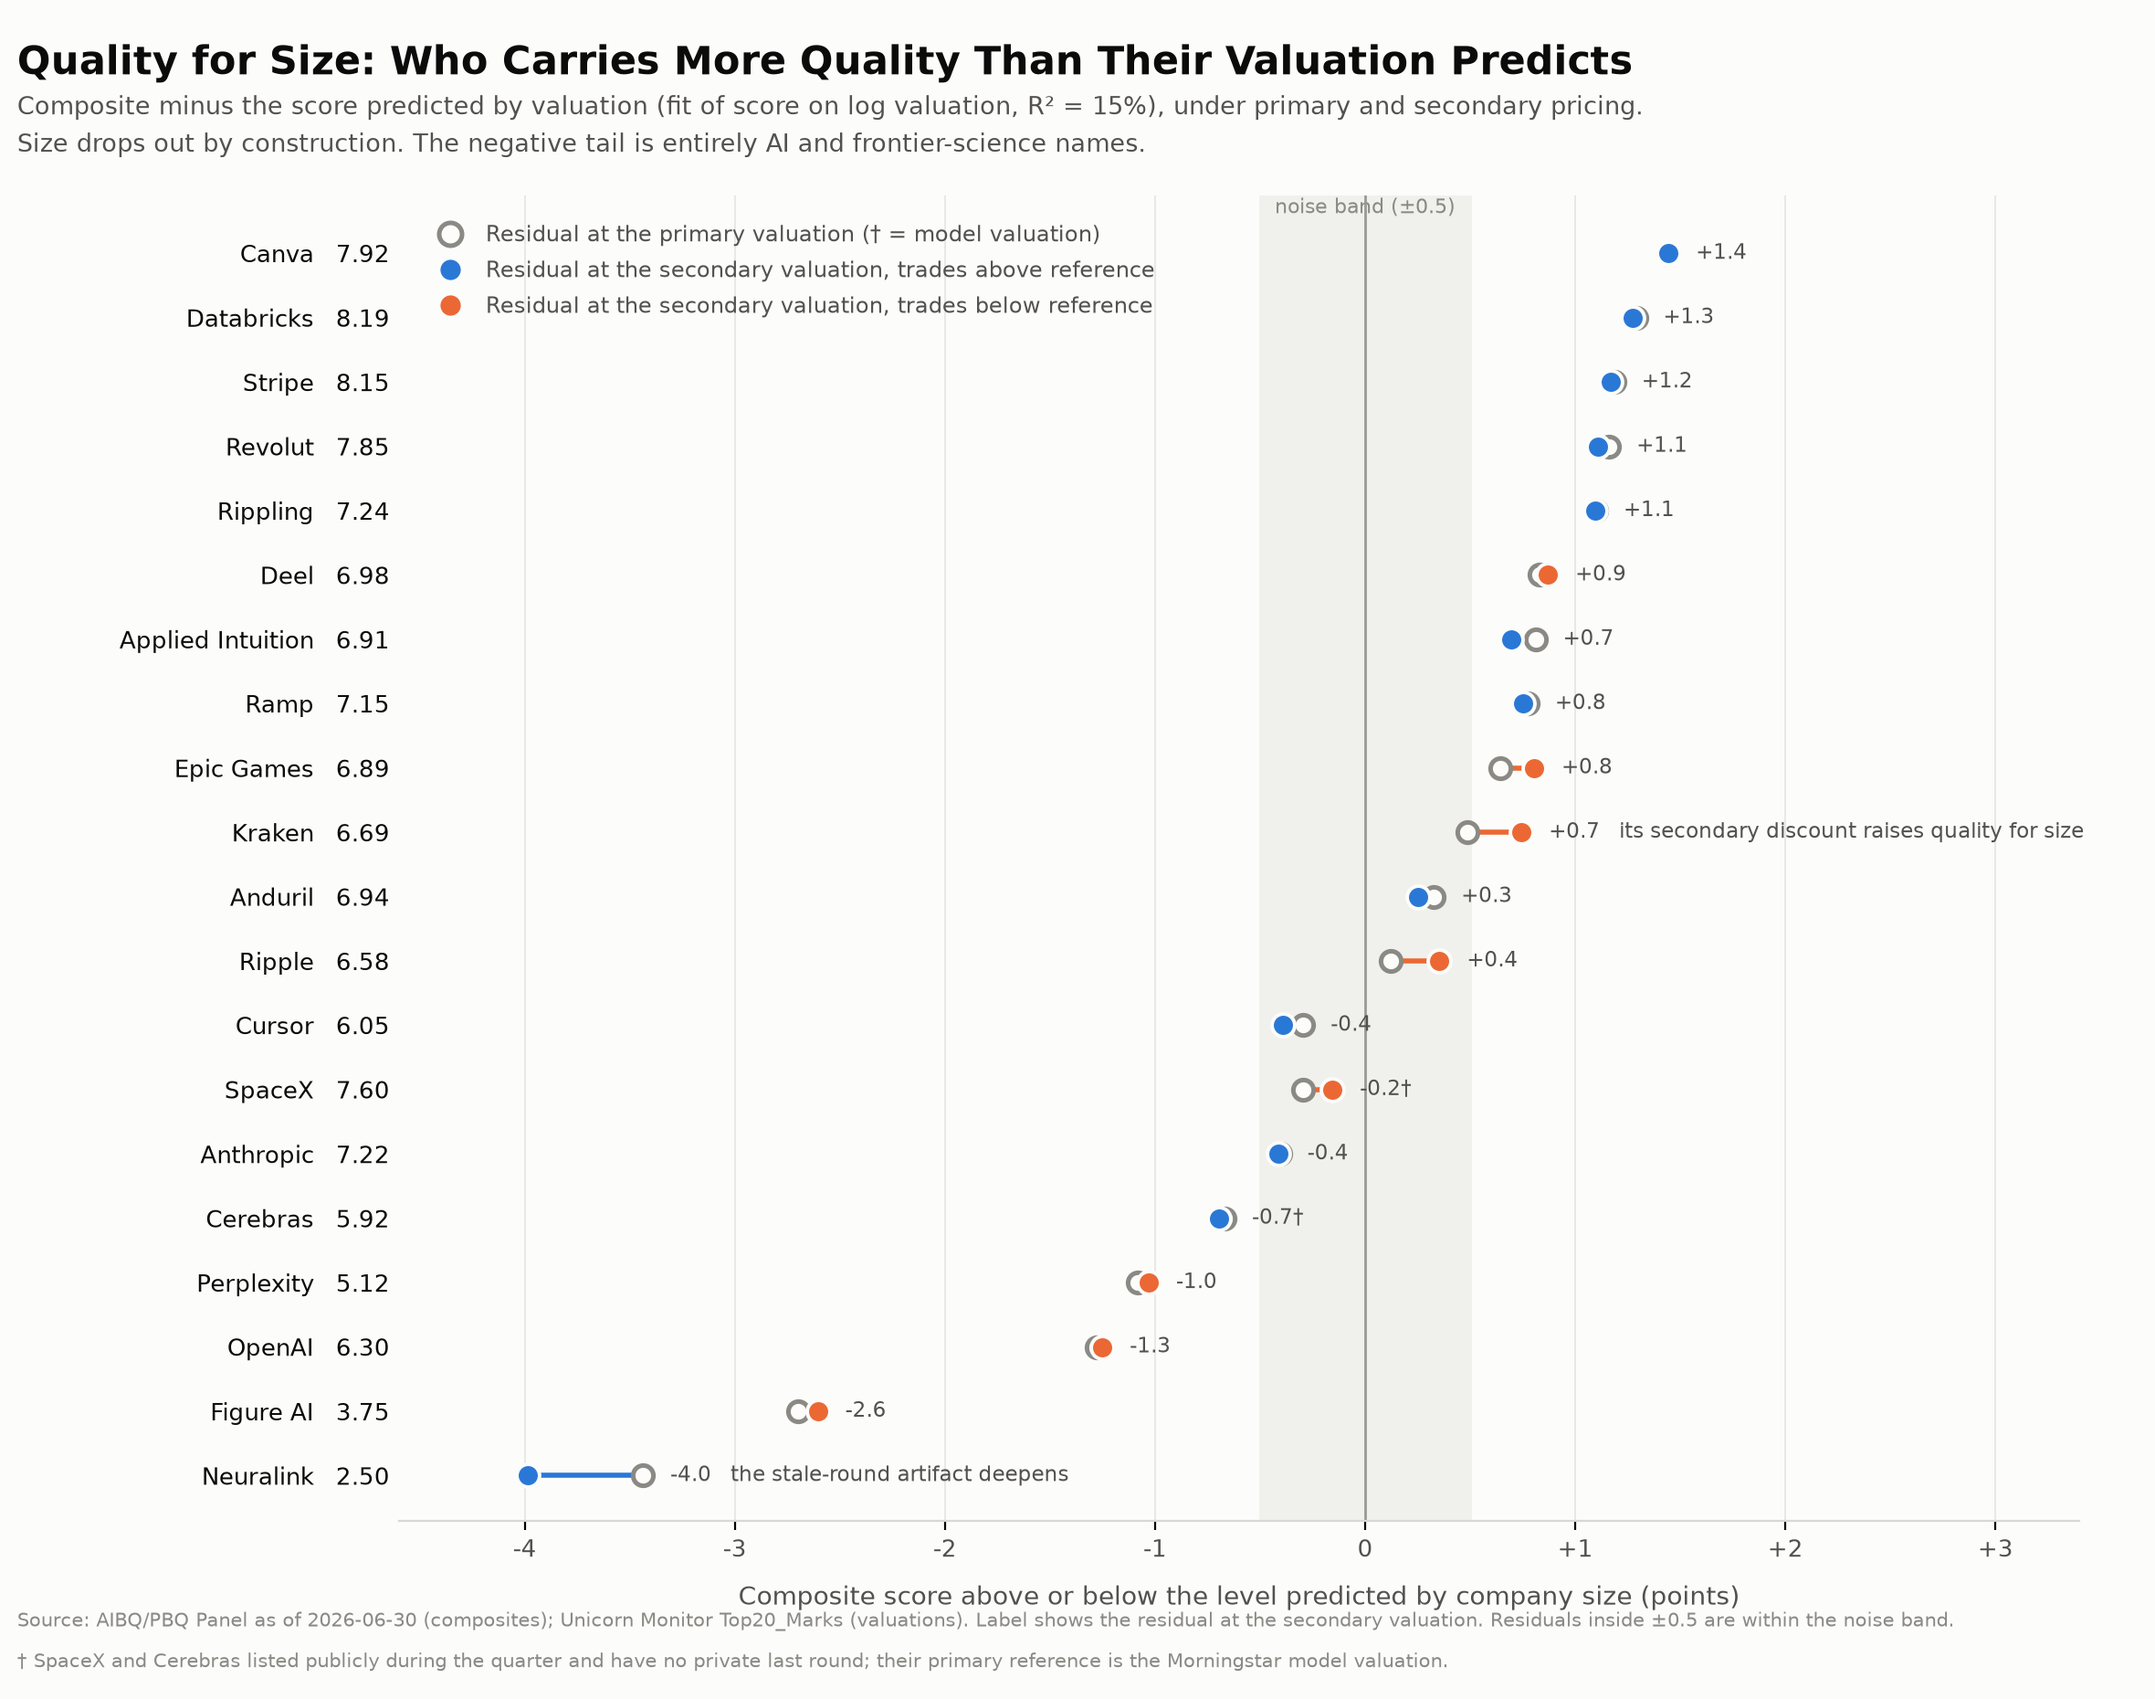
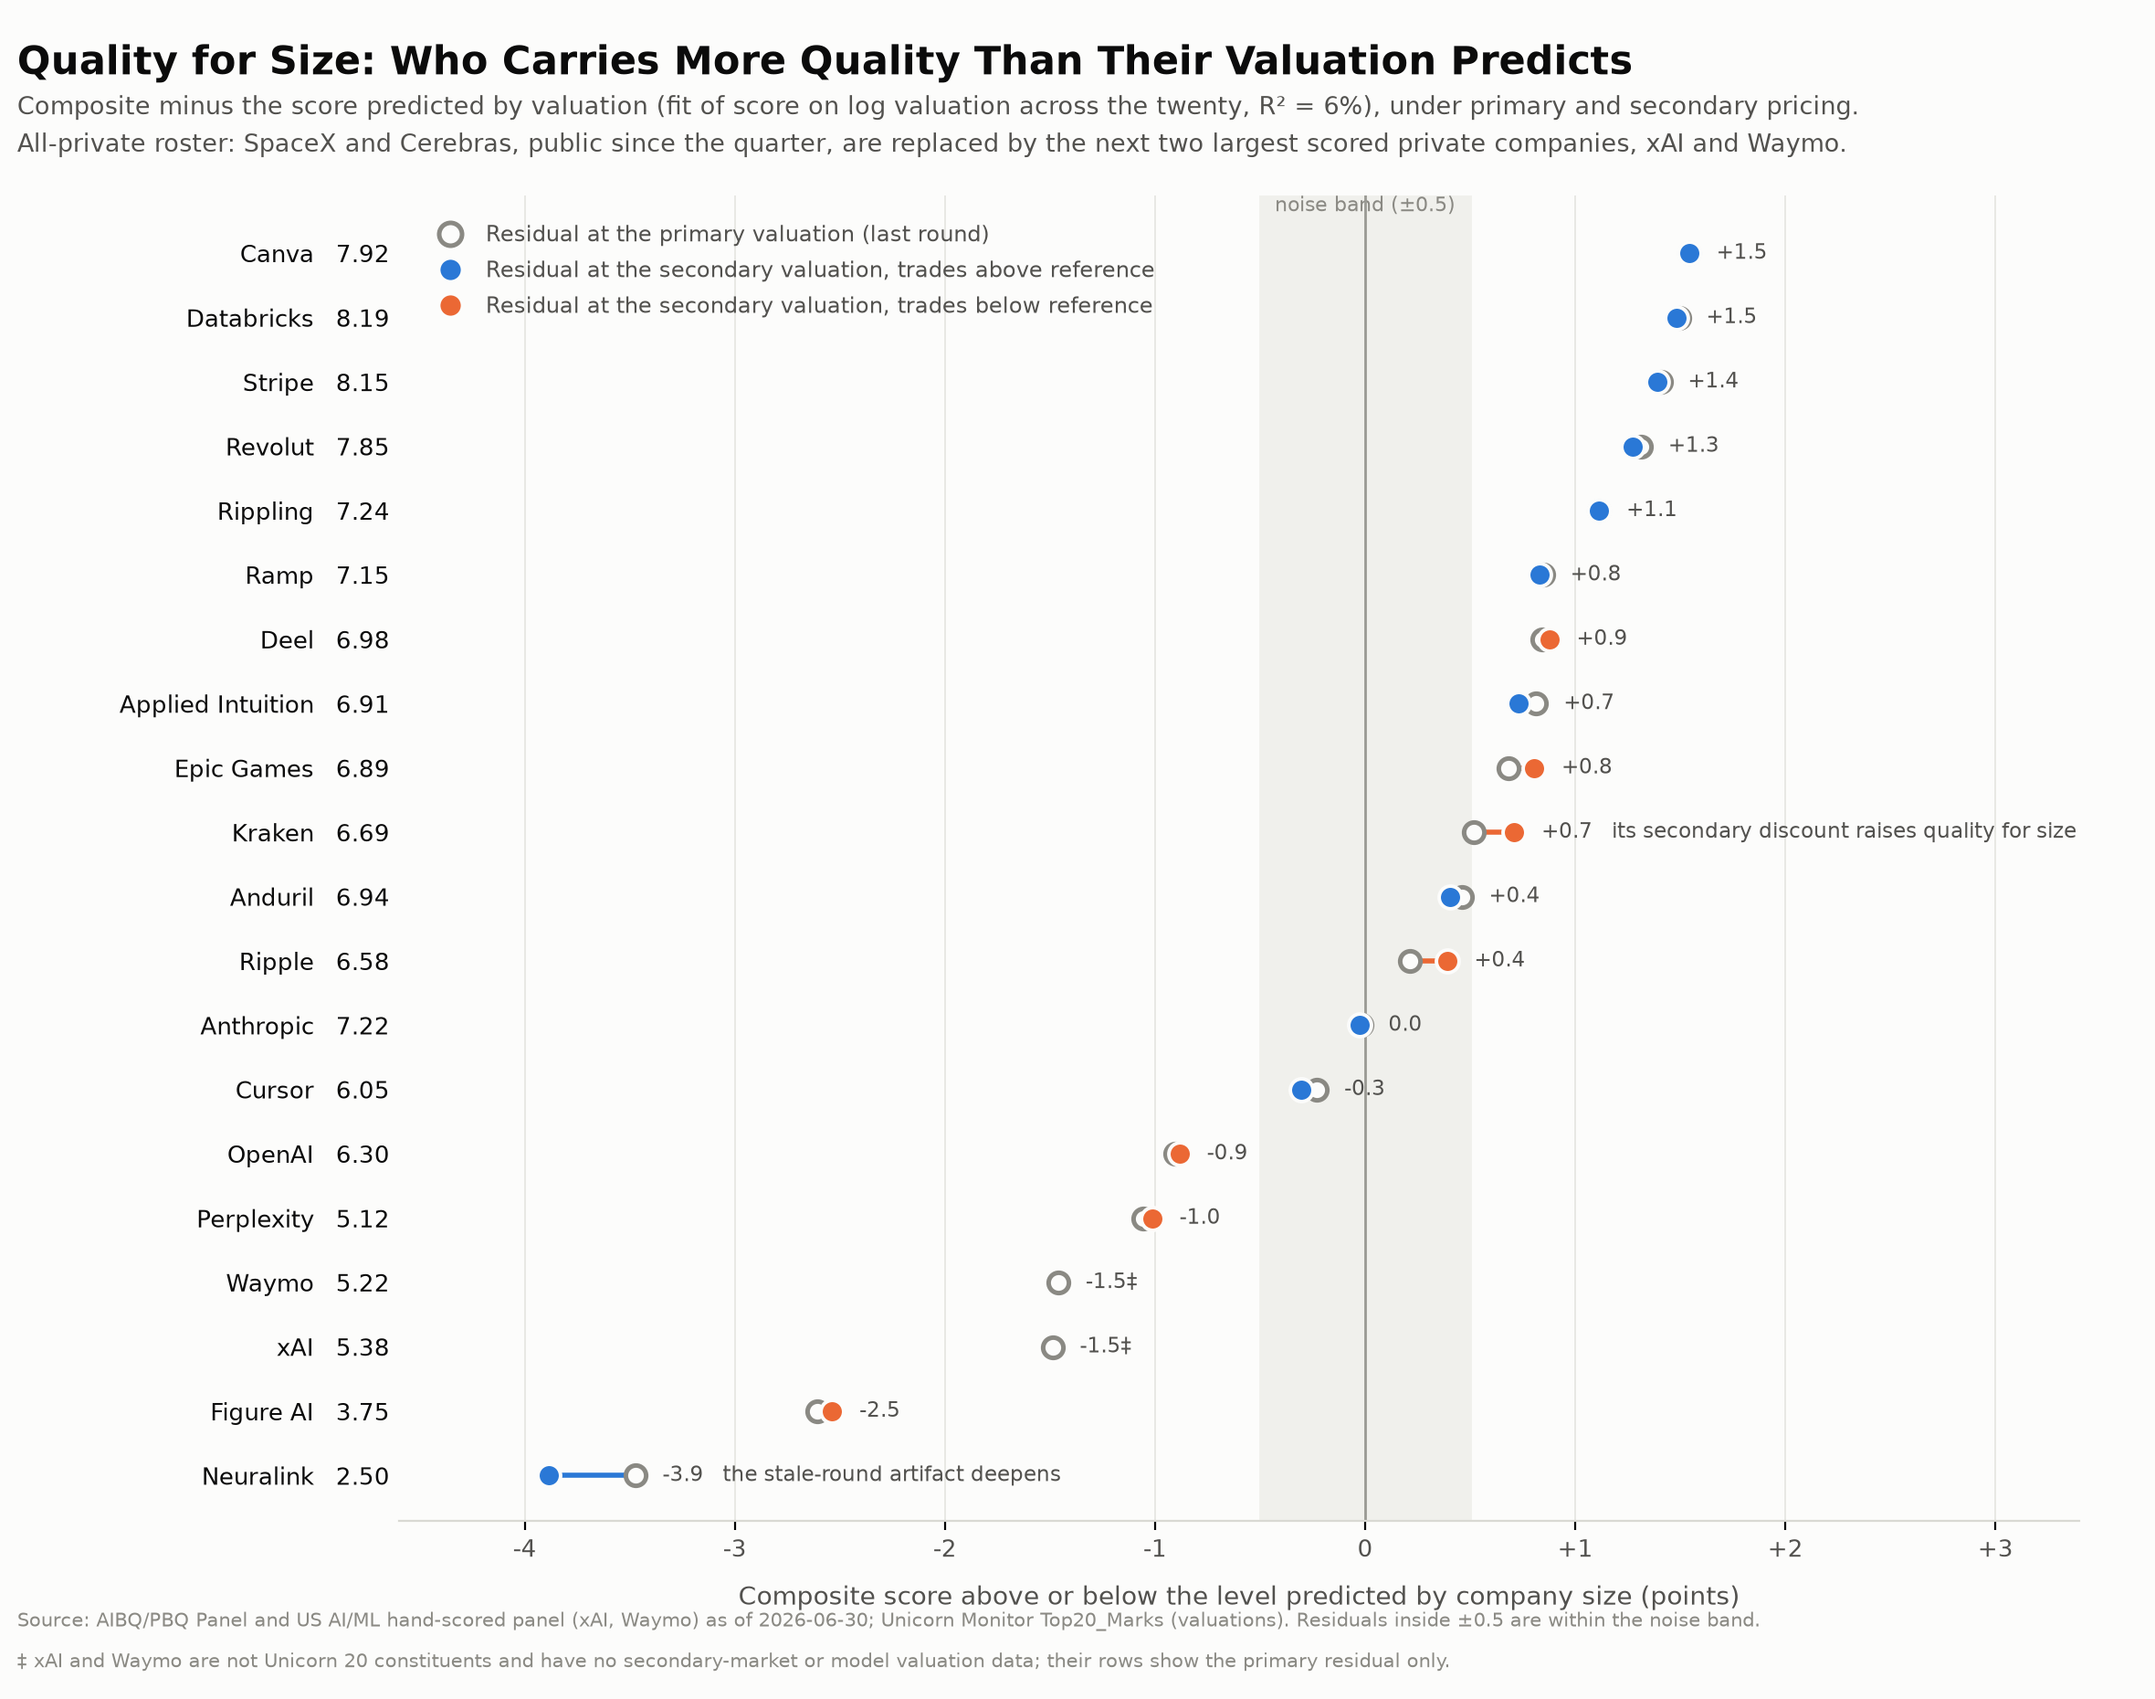
Rebuild quality-for-size on all-private roster: xAI and Waymo replace SpaceX and Cerebras
Replace the two public listings with the next two largest scored private
companies from the hand-scored panel. Both enter as primary-residual-only rows
(double-dagger flagged): neither has secondary-market or model-valuation data.
Fit re-estimated on the new twenty: R2 falls from 15% to 6%, price explains even
less of quality on the all-private roster, and Anthropic lands at exactly the
quality its size predicts. CSV methodology updated with the constituent rule.

Claude-Session: https://claude.ai/code/session_01KcQ6jidyMrCam9PxNDFS9i

diff --git a/templates/q2_2026_quality_for_size_chart.py b/templates/q2_2026_quality_for_size_chart.py
@@ -5,46 +5,52 @@ import matplotlib.pyplot as plt
 from matplotlib.lines import Line2D
 import numpy as np, csv
 
-# company, composite, class, primary $B (last round; † model), secondary $B, flag
-D=[("Databricks",8.19,"AIBQ",134,139.4,""),("Stripe",8.15,"PBQ",159,167.2,""),
-("Canva",7.92,"PBQ",42,42.11,""),("Revolut",7.85,"PBQ",75,87.06,""),
-("SpaceX",7.60,"PBQ",2026.24,1376.55,"m"),("Rippling",7.24,"PBQ",16.8,16.98,""),
-("Anthropic",7.22,"AIBQ",965,989.6,""),("Ramp",7.15,"PBQ",32,33.99,""),
-("Deel",6.98,"PBQ",17.3,15.47,""),("Anduril",6.94,"PBQ",61,74.5,""),
-("Applied Intuition",6.91,"AIBQ",15,20.47,""),("Epic Games",6.89,"PBQ",22.5,14.47,""),
-("Kraken",6.69,"PBQ",20,9.88,""),("Ripple",6.58,"PBQ",40,21.23,""),
-("OpenAI",6.30,"AIBQ",852,787.2,""),("Cursor",6.05,"AIBQ",29.3,38.21,""),
-("Cerebras",5.92,"AIBQ",57.1,61.45,"m"),("Perplexity",5.12,"AIBQ",20,17.25,""),
-("Figure AI",3.75,"AIBQ",39,30.14,""),("Neuralink",2.50,"PBQ",9.65,42.84,"")]
+# company, composite, class, primary $B (last round), secondary $B (None = no secondary data), source
+D=[("Databricks",8.19,"AIBQ",134,139.4),("Stripe",8.15,"PBQ",159,167.2),
+("Canva",7.92,"PBQ",42,42.11),("Revolut",7.85,"PBQ",75,87.06),
+("Rippling",7.24,"PBQ",16.8,16.98),("Anthropic",7.22,"AIBQ",965,989.6),
+("Ramp",7.15,"PBQ",32,33.99),("Deel",6.98,"PBQ",17.3,15.47),
+("Anduril",6.94,"PBQ",61,74.5),("Applied Intuition",6.91,"AIBQ",15,20.47),
+("Epic Games",6.89,"PBQ",22.5,14.47),("Kraken",6.69,"PBQ",20,9.88),
+("Ripple",6.58,"PBQ",40,21.23),("OpenAI",6.30,"AIBQ",852,787.2),
+("Cursor",6.05,"AIBQ",29.3,38.21),("Perplexity",5.12,"AIBQ",20,17.25),
+("Figure AI",3.75,"AIBQ",39,30.14),("Neuralink",2.50,"PBQ",9.65,42.84),
+("xAI",5.38,"AIBQ",250,None),("Waymo",5.22,"AIBQ",126,None)]
 
 x=np.log10([r[3] for r in D]); y=np.array([r[1] for r in D])
 b,a=np.polyfit(x,y,1)
 r2=1-np.sum((y-(a+b*x))**2)/np.sum((y-np.mean(y))**2)
 rows=[]
-for name,s,cls,vp,vs,fl in D:
-    rp=s-(a+b*np.log10(vp)); rs=s-(a+b*np.log10(vs))
-    rows.append((name,s,cls,vp,vs,fl,rp,rs))
-rows.sort(key=lambda r:-r[6])
+for name,s,cls,vp,vs in D:
+    rp=s-(a+b*np.log10(vp))
+    rs=(s-(a+b*np.log10(vs))) if vs else None
+    rows.append((name,s,cls,vp,vs,rp,rs))
+rows.sort(key=lambda r:-r[5])
 
 ABOVE="#2a78d6"; BELOW="#eb6834"; PRIM="#8a8983"
 INK="#0b0b0b"; SEC="#52514e"; MUT="#8a8983"; SURF="#fcfcfb"; GRID="#e8e8e4"
 
 fig,ax=plt.subplots(figsize=(11.8,9.3),dpi=200)
 fig.patch.set_facecolor(SURF); ax.set_facecolor(SURF)
+n=len(rows)
 ax.axvspan(-0.5,0.5,color="#f0f0ec",zorder=0)
-ax.text(0,20.55,"noise band (±0.5)",ha="center",va="bottom",fontsize=7.8,color=MUT,zorder=1)
+ax.text(0,n+0.58,"noise band (±0.5)",ha="center",va="bottom",fontsize=7.8,color=MUT,zorder=1)
 
-n=len(rows); ys=list(range(n,0,-1))
-for (name,s,cls,vp,vs,fl,rp,rs),yy in zip(rows,ys):
-    c=ABOVE if vs>=vp else BELOW
-    ax.plot([rp,rs],[yy,yy],color=c,lw=2,zorder=3,solid_capstyle="round")
+ys=list(range(n,0,-1))
+for (name,s,cls,vp,vs,rp,rs),yy in zip(rows,ys):
+    if rs is not None:
+        c=ABOVE if vs>=vp else BELOW
+        ax.plot([rp,rs],[yy,yy],color=c,lw=2,zorder=3,solid_capstyle="round")
+        ax.scatter([rs],[yy],s=80,color=c,edgecolor=SURF,linewidth=1.4,zorder=5)
+        lab=("0.0" if abs(rs)<0.05 else f"{rs:+.1f}")
+    else:
+        lab=f"{rp:+.1f}‡"
     ax.scatter([rp],[yy],s=64,facecolor=SURF,edgecolor=PRIM,linewidth=1.8,zorder=4)
-    ax.scatter([rs],[yy],s=80,color=c,edgecolor=SURF,linewidth=1.4,zorder=5)
-    dag="†" if fl=="m" else ""
     note=""
     if name=="Kraken": note="   its secondary discount raises quality for size"
     if name=="Neuralink": note="   the stale-round artifact deepens"
-    ax.text(max(rp,rs)+0.13,yy,f"{rs:+.1f}{dag}{note}",va="center",ha="left",fontsize=8.3,color=SEC,zorder=5)
+    xa=max([v for v in (rp,rs) if v is not None])
+    ax.text(xa+0.13,yy,f"{lab}{note}",va="center",ha="left",fontsize=8.3,color=SEC,zorder=5)
 
 ax.axvline(0,color="#9a9a94",lw=1.0,zorder=2)
 ax.set_yticks(ys)
@@ -62,13 +68,13 @@ ax.set_ylim(0.3,n+0.9)
 
 fig.text(0.008,0.974,"Quality for Size: Who Carries More Quality Than Their Valuation Predicts",
          fontsize=15.5,fontweight="bold",color=INK,va="top")
-fig.text(0.008,0.944,f"Composite minus the score predicted by valuation (fit of score on log valuation, R² = {r2:.0%}), "
+fig.text(0.008,0.944,f"Composite minus the score predicted by valuation (fit of score on log valuation across the twenty, R² = {r2:.0%}), "
          "under primary and secondary pricing.",fontsize=9.8,color=SEC,va="top")
-fig.text(0.008,0.922,"Size drops out by construction. The negative tail is entirely AI and frontier-science names.",
-         fontsize=9.8,color=SEC,va="top")
+fig.text(0.008,0.922,"All-private roster: SpaceX and Cerebras, public since the quarter, are replaced by the next two largest scored "
+         "private companies, xAI and Waymo.",fontsize=9.8,color=SEC,va="top")
 
 leg=[Line2D([0],[0],marker="o",color="none",markerfacecolor=SURF,markeredgecolor=PRIM,
-            markeredgewidth=1.8,markersize=9,label="Residual at the primary valuation († = model valuation)"),
+            markeredgewidth=1.8,markersize=9,label="Residual at the primary valuation (last round)"),
      Line2D([0],[0],marker="o",color="none",markerfacecolor=ABOVE,markeredgecolor=SURF,
             markersize=9,label="Residual at the secondary valuation, trades above reference"),
      Line2D([0],[0],marker="o",color="none",markerfacecolor=BELOW,markeredgecolor=SURF,
@@ -76,38 +82,41 @@ leg=[Line2D([0],[0],marker="o",color="none",markerfacecolor=SURF,markeredgecolor
 ax.legend(handles=leg,loc="upper left",frameon=False,fontsize=8.8,labelcolor=SEC,
           handletextpad=0.6,borderpad=0.8,labelspacing=0.6)
 
-fig.text(0.008,0.040,"Source: AIBQ/PBQ Panel as of 2026-06-30 (composites); Unicorn Monitor Top20_Marks (valuations). "
-         "Label shows the residual at the secondary valuation. Residuals inside ±0.5 are within the noise band.",
+fig.text(0.008,0.040,"Source: AIBQ/PBQ Panel and US AI/ML hand-scored panel (xAI, Waymo) as of 2026-06-30; Unicorn Monitor "
+         "Top20_Marks (valuations). Residuals inside ±0.5 are within the noise band.",
          fontsize=7.6,color=MUT,va="bottom")
-fig.text(0.008,0.016,"† SpaceX and Cerebras listed publicly during the quarter and have no private last round; their "
-         "primary reference is the Morningstar model valuation.",fontsize=7.6,color=MUT,va="bottom")
+fig.text(0.008,0.016,"‡ xAI and Waymo are not Unicorn 20 constituents and have no secondary-market or model valuation data; "
+         "their rows show the primary residual only.",fontsize=7.6,color=MUT,va="bottom")
 
 fig.subplots_adjust(left=0.185,right=0.965,top=0.885,bottom=0.105)
 fig.savefig("/home/user/pitchbook-analyst-agent/templates/q2_2026_quality_for_size.png",facecolor=SURF)
 plt.close(fig)
 print(f"fit: score = {a:.3f} + {b:.3f}*log10(V$B), R2={r2:.3f}")
+for r in rows:
+    print(f"  {r[0]:20s} rp={r[5]:+.2f}" + (f" rs={r[6]:+.2f}" if r[6] is not None else "  (no secondary)"))
 
-# ---- CSV with methodology ----
 out="/home/user/pitchbook-analyst-agent/templates/q2_2026_quality_for_size.csv"
 with open(out,"w",newline="") as f:
     w=csv.writer(f)
     for line in [
      "# Quality for Size - AIBQ/PBQ composite residual vs company size, as of 2026-06-30",
+     "# CONSTITUENTS: the 18 private Unicorn 20 constituents with AIBQ/PBQ panel scores, plus xAI and Waymo, the next two largest scored private companies (US AI/ML hand-scored panel, same framework and weights; confidence Medium). SpaceX and Cerebras are excluded: both listed publicly during the quarter.",
      "# METHODOLOGY:",
-     f"# 1. Fit an ordinary least squares line of composite score on log10(primary valuation $B) across the 20 companies: score = {a:.3f} + {b:.3f} * log10(V). R-squared = {r2:.3f}.",
-     "# 2. residual_primary = composite - predicted score at the primary valuation (last-round post-money; Morningstar model valuation for SpaceX and Cerebras, which listed during the quarter and have no private last round - flagged 'model' in primary_basis).",
-     "# 3. residual_secondary = composite - predicted score at the secondary valuation (secondary-implied value from observed share transactions; public trading value for SpaceX and Cerebras), using the SAME fitted line, so the difference between the two residuals reflects only the valuation gap between markets.",
+     f"# 1. Fit an ordinary least squares line of composite score on log10(primary valuation $B) across these 20 companies: score = {a:.3f} + {b:.3f} * log10(V). R-squared = {r2:.3f}.",
+     "# 2. residual_primary = composite - predicted score at the primary valuation (last-round post-money).",
+     "# 3. residual_secondary = composite - predicted score at the secondary valuation (secondary-implied value from observed share transactions), using the SAME fitted line, so the difference between the two residuals reflects only the valuation gap between markets. xAI and Waymo have no secondary-market data; their secondary fields are empty.",
      "# 4. Positive residual = more quality than companies of that size typically carry. Residuals inside +/-0.5 points are within the noise band and should not be ranked (score confidence bands are +/-2.75 to +/-3.75).",
-     "# SOURCES: AIBQ/PBQ Panel as of 2026-06-30 (composites, point-in-time capped); Unicorn Monitor Top20_Marks (primary and secondary valuations).",
+     "# SOURCES: AIBQ/PBQ Panel as of 2026-06-30 (composites, point-in-time capped); US AI/ML hand-scored panel v2 (xAI, Waymo composites); Unicorn Monitor Top20_Marks (primary and secondary valuations).",
      "# Neuralink's secondary valuation reflects a stale 2021 last round, not demand; its secondary residual is an artifact of that base.",
     ]: f.write(line+"\n")
     w.writerow(["company","framework","composite_score","primary_valuation_bn","primary_basis",
                 "secondary_valuation_bn","secondary_basis","predicted_score_primary","residual_primary",
                 "predicted_score_secondary","residual_secondary","secondary_vs_reference","within_noise_band_primary"])
-    for name,s,cls,vp,vs,fl,rp,rs in rows:
-        pb="model_valuation" if fl=="m" else "last_round_post_money"
-        sb="public_trading" if fl=="m" else "secondary_implied"
-        w.writerow([name,cls,f"{s:.2f}",f"{vp:.2f}",pb,f"{vs:.2f}",sb,
-                    f"{s-rp:.3f}",f"{rp:.3f}",f"{s-rs:.3f}",f"{rs:.3f}",
-                    "above" if vs>=vp else "below","yes" if abs(rp)<0.5 else "no"])
+    for name,s,cls,vp,vs,rp,rs in rows:
+        w.writerow([name,cls,f"{s:.2f}",f"{vp:.2f}","last_round_post_money",
+                    (f"{vs:.2f}" if vs else ""),("secondary_implied" if vs else "no_secondary_data"),
+                    f"{s-rp:.3f}",f"{rp:.3f}",
+                    (f"{s-rs:.3f}" if rs is not None else ""),(f"{rs:.3f}" if rs is not None else ""),
+                    ("above" if (vs and vs>=vp) else "below" if vs else "n/a"),
+                    "yes" if abs(rp)<0.5 else "no"])
 print("wrote",out)
